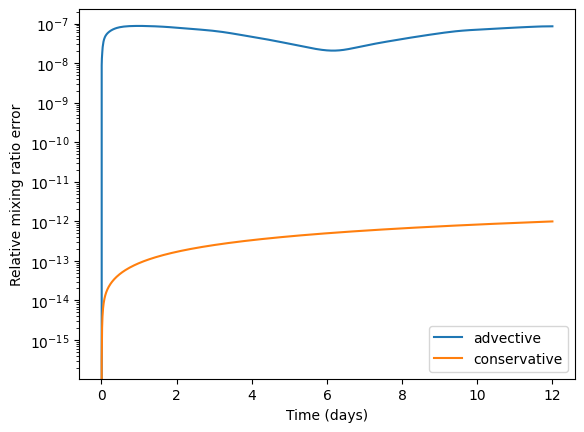
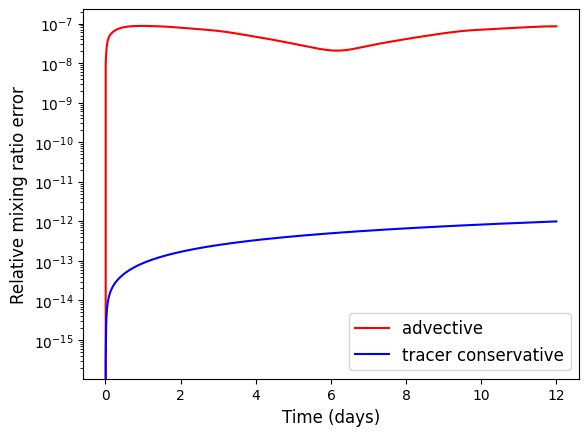
NL sphere stuff

diff --git a/paper_test_suite/NL_sphere/plot_NL_sphere_error_and_Td.py b/paper_test_suite/NL_sphere/plot_NL_sphere_error_and_Td.py
@@ -1,0 +1,190 @@
+# A script to make a convergence plot from 
+# the conservation test with the NL_slice test.
+# This uses the tomplot library
+# This is for the convergence configuration of the tests.
+
+import matplotlib.pyplot as plt
+from netCDF4 import Dataset
+from os.path import abspath, dirname
+from tomplot import (set_tomplot_style, plot_convergence,
+                     only_minmax_ticklabels, tomplot_legend_ax,
+                     tomplot_legend_fig)
+import numpy as np
+
+order = 1
+quantity = 'tracer_density' # tracer_density or m_X
+
+# Tracer density will be the total and m_X is the L2 of stead state error
+
+# Older branch:
+#results_dir = '/data/home/ta440/firedrake_07_03_24/src/gusto/gusto_conservative_transport/paper_test_suite/NL_sphere/'
+#name_ext=''
+
+# Or, for current directory:
+results_dir = ''
+
+# For any additional components to the name:
+#name_ext = '_dt_450.0_divflow_Vu_CG1'
+
+# order = 0 local branch
+#name_ext = '_dt_450.0_divflow_Vu_CG1_td_solve'
+
+# order = 1 local branch
+name_ext = '_td_solve'
+
+# ---------------------------------------------------------------------------- #
+# Directory for results and plots
+# ---------------------------------------------------------------------------- #
+plot_dir = f'{abspath(dirname(__file__))}/figures'
+if quantity == 'm_X':
+    plot_name = f'{plot_dir}/NL_sphere_ord_{order}_convergence_m_l2_sse.png'
+else:
+    plot_name = f'{plot_dir}/NL_sphere_ord_{order}_convergence_Td_sum.png'
+conservative = []
+advective = []
+
+# Spatial resolutions.
+# Order 1 can be twice as coarse as order 0.
+if order == 1:
+    ncells_per_edge = [8,16,24,32]
+    #refinement = ncells_per_edge
+    refinement = [32/val for val in ncells_per_edge]
+else:
+    #ncells_per_edge = [36,48]
+    ncells_per_edge = [16,24,36,48]
+    refinement = [48/val for val in ncells_per_edge]
+
+# Make a line for the conservative transport of the mixing ratio
+print('Extracting conservative data')
+for cell_no in ncells_per_edge:
+    dirname = f'NL_sphere_conservative_order_{order}_convergence_ncells_{cell_no}{name_ext}'
+    nc = Dataset(f'{results_dir}results/{dirname}/diagnostics.nc')
+
+    if quantity == 'tracer_density':
+    # Extract the tracer density:
+    
+        rho_X = nc.groups['TracerDensity_m_X_rho_d']
+        
+        T_d = rho_X.variables['total'][:]
+        
+        # Just compute Tracer density at the end time:
+        #T_d_diff = np.abs(T_d[-1] - T_d[0])/T_d[0]
+        #conservative.append(T_d_diff)
+
+        # Compute Tracer Density as a sum:
+        T_d_sum = np.sum(np.abs(T_d[1:] - T_d[0])/T_d[0])/len(T_d[1:])
+        conservative.append(T_d_sum)
+
+    elif quantity == 'm_X':
+        m_err = nc.groups['m_X_error']
+        m_err_l2 = m_err.variables['l2'][:]
+        # Normalise steady state error by initial value
+        # of m_X
+        mX = nc.groups['m_X']
+        mX0 = mX.variables['l2'][0]
+        print(mX0)
+        conservative.append(np.abs(m_err_l2[-1])/mX0)
+        print(np.log(np.abs(m_err_l2[-1])))
+    else:
+        raise ValueError('Not correct inputs')
+
+# Make a line for the advective transport of the mixing ratio
+print('Extracting advective data')
+for cell_no in ncells_per_edge:
+    dirname = f'NL_sphere_advective_order_{order}_convergence_ncells_{cell_no}{name_ext}'
+    
+    nc = Dataset(f'{results_dir}results/{dirname}/diagnostics.nc')
+
+    if quantity == 'tracer_density':
+    # Extract the tracer density:
+    
+        rho_X = nc.groups['TracerDensity_m_X_rho_d']
+        
+        T_d = rho_X.variables['total'][:]
+        
+        # Just compute Tracer density at the end:
+        #T_d_diff = np.abs(T_d[-1] - T_d[0])/T_d[0]
+        #advective.append(T_d_diff)
+
+        # Compute Tracer Density as a sum:
+        T_d_sum = np.sum(np.abs(T_d[1:] - T_d[0])/T_d[0])/len(T_d[1:])
+        advective.append(T_d_sum)
+
+    elif quantity == 'm_X':
+        m_err = nc.groups['m_X_error']
+        m_err_l2 = m_err.variables['l2'][:]
+        mX = nc.groups['m_X']
+        mX0 = mX.variables['l2'][0]
+        print(mX0)
+        advective.append(np.abs(m_err_l2[-1])/mX0)
+        print(np.log(np.abs(m_err_l2[-1])))
+    else:
+        raise ValueError('Not correct inputs')
+    
+##################################
+# Labels for the two plots:
+all_error_data = [advective, conservative]
+colours = ['red', 'blue']
+markers = ['s', 'o']
+labels = ['advective', 'tracer conservative']
+
+print(all_error_data)
+
+if quantity == 'tracer_density':
+    log_by = 'axes'
+    log_base = 10
+    #ylabel = r"$T_d(T_{end}) - T_d(0)/T_d(0)$"
+    ylabel = 'Mean Tracer Density Error'
+    if order == 1:
+        xlabel = r"$32/N_e$"
+    else:
+        xlabel = r"$48/N_e$"
+else:
+    log_by = 'data'
+    log_base= 'e'
+    if order == 1:
+        xlabel = r"$ln(32/N_e)$"
+    else:
+        xlabel = r"$ln(48/N_e)$"
+    ylabel = "$ln(||m(T_{end}) - m(0)||/||m(0)||)$"
+
+
+set_tomplot_style()
+fig, ax = plt.subplots(1, 1, figsize=(5, 5)) 
+for error_data, colour, marker, label in \
+        zip(all_error_data, colours, markers, labels):
+    plot_convergence(ax, refinement, error_data, label=label,
+                    color=colour, marker=marker, log_by=log_by,
+                    log_base=log_base, gradient_in_label=False)
+                    
+ax.set_xlabel(xlabel)
+ax.set_ylabel(ylabel)
+
+#xtick_labels = [np.round(val,2) for val in refinement]
+#xticks = [np.round(val,2) for val in refinement]
+#ax.set_xticks(xticks, xtick_labels)
+
+tomplot_legend_ax(ax, location='bottom')
+
+plt.grid()
+
+if quantity == 'tracer_density':
+    old_xticklabels = ax.get_xticklabels()
+
+    # Set most tick labels to be an empty string
+    new_xticklabels = ['' for _ in old_xticklabels]
+
+    ax.set_xticklabels([])
+    #ax.set_xticklabels(new_xticklabels)
+
+    xtick_labels = [np.round(val,2) for val in refinement]
+    #print(xtick_labels)
+    xticks = [np.round(val,2) for val in refinement]
+    ax.set_xticks(xticks, xtick_labels)
+
+# ---------------------------------------------------------------------------- #
+# Save figure
+# ---------------------------------------------------------------------------- #
+print(f'Saving figure to {plot_name}')
+#fig.savefig(plot_name, bbox_inches='tight')
+plt.close()

diff --git a/paper_test_suite/NL_sphere/plot_NL_sphere_consistency_mx_sse.py b/paper_test_suite/NL_sphere/plot_NL_sphere_consistency_mx_sse.py
@@ -12,7 +12,7 @@ from tomplot import (set_tomplot_style, plot_convergence,
 import numpy as np
 
 order = 1
-Ne = 32
+
 
 # Tracer density will be the total and m_X is the L2 of stead state error
 
@@ -28,34 +28,52 @@ extra_name = ''
 # ---------------------------------------------------------------------------- #
 # Directory for results and plots
 # ---------------------------------------------------------------------------- #
-plot_dir = f'{abspath(dirname(__file__))}/figures'
-plot_name = f'{abspath(dirname(__file__))}/NL_sphere_ord_{order}_consistency_m_l2_sse_over_time.png'
+plot_name = f'{abspath(dirname(__file__))}/figures/NL_sphere_ord_{order}_consistency_m_l2_sse_over_time.png'
+
+if order == 0:
+    Ne = 48
+elif order == 1:
+    Ne = 32
 
 # Advective result:
-adv_dirname = f'NL_sphere_advective_order_{order}_consistency_ncells_{Ne}{extra_name}/field_output.nc'
+adv_dirname = f'NL_sphere_advective_order_{order}_consistency_ncells_{Ne}{extra_name}'
 nc = Dataset(f'{abspath(dirname(__file__))}/results/{adv_dirname}/diagnostics.nc')
 
 times = np.asarray(nc['time'])
+time_days = times/60/60/24
 
 adv_mx_sse = nc.groups['m_X_error']
-adv_mx_sse = adv_mx_sse['total'][:]
+adv_mx_sse = adv_mx_sse['l2'][:]
+
+# Normalise:
+adv_mX = nc.groups['m_X']
+adv_mX = adv_mX['l2'][:]
+adv_mX0 = adv_mX[0]
+adv_mx_sse = adv_mx_sse/adv_mX0
 
 
 # Conservative result:
-con_dirname = f'{abspath(dirname(__file__))}/results/NL_sphere_conservative_order_{order}_consistency_ncells_{Ne}{extra_name}/field_output.nc'
+con_dirname = f'NL_sphere_conservative_order_{order}_consistency_ncells_{Ne}{extra_name}'
 conservative_nc = Dataset(f'{abspath(dirname(__file__))}/results/{con_dirname}/diagnostics.nc')
 
 con_mx_sse = conservative_nc.groups['m_X_error']
-con_mx_sse = con_mx_sse['total'][:]
+con_mx_sse = con_mx_sse['l2'][:]
+
+# Normalise:
+con_mX = nc.groups['m_X']
+con_mX = con_mX['l2'][:]
+con_mX0 = con_mX[0]
+con_mx_sse = con_mx_sse/con_mX0
+
 
 # Plot these tracer densities
 plt.figure()
-plt.semilogy(times, adv_mx_sse, label='advective')
-plt.semilogy(times, adv_mx_sse, label='conservative')
-plt.xlabel('Time (s)')
-plt.ylabel('|T_d(t) - T_d(0)| / T_d(0)')
-plt.legend()
+plt.semilogy(time_days, adv_mx_sse, label='advective', c='r')
+plt.semilogy(time_days, con_mx_sse, label='tracer conservative', c='b')
+plt.xlabel('Time (days)', size=12)
+plt.ylabel('Relative mixing ratio error', size=12)
+plt.legend(loc='lower right', prop={'size': 12})
 
 print(f'Saving figure to {plot_name}')
-fig.savefig(plot_name, bbox_inches='tight')
+plt.savefig(plot_name, bbox_inches='tight')
 plt.close()

diff --git a/paper_test_suite/NL_sphere/NL_sphere_divergent.py b/paper_test_suite/NL_sphere/NL_sphere_divergent.py
@@ -100,8 +100,10 @@ def NL_sphere(
     tracers = [rho_d, m_X]
 
     # Equation
-    #V = domain.spaces("HDiv")
-    V = VectorFunctionSpace(mesh, 'CG', 1)
+    if order == 0:
+        V = VectorFunctionSpace(mesh, 'CG', 1)
+    elif order == 1:
+        V = domain.spaces("HDiv")
     eqn = CoupledTransportEquation(domain, active_tracers=tracers, Vu=V)
 
     if conservative_transport:
@@ -109,7 +111,12 @@ def NL_sphere(
     else:
         transport_type = 'advective'
 
-    dirname = f'NL_sphere_{transport_type}_order_{str(order)}_{configuration}_ncells_{str(ncells_per_edge)}_dt_{dt}_divflow_Vu_CG1'
+    if configuration == 'consistency':
+        dirname = f'NL_sphere_{transport_type}_order_{str(order)}_{configuration}_ncells_{str(ncells_per_edge)}'
+    elif order == 0:
+        dirname = f'NL_sphere_{transport_type}_order_{str(order)}_{configuration}_ncells_{str(ncells_per_edge)}_dt_{dt}_divflow_Vu_CG1_td_solve'
+    else:
+        dirname = f'NL_sphere_{transport_type}_order_{str(order)}_{configuration}_ncells_{str(ncells_per_edge)}_td_solve'
 
     # I/O
     output = OutputParameters(
@@ -118,8 +125,8 @@ def NL_sphere(
 
     # Use a tracer density diagnostic to track conservation
     # Compare interpolate vs solve methods.
-    td = TracerDensity('m_X', 'rho_d')
-    #td = TracerDensity('m_X', 'rho_d', method='solve')
+    #td = TracerDensity('m_X', 'rho_d')
+    td = TracerDensity('m_X', 'rho_d', method='solve')
 
     diagnostic_fields = [
         td, SteadyStateError('m_X'),
@@ -134,14 +141,13 @@ def NL_sphere(
     if order == 1:
         suboptions = {}
     elif order == 0:
-        VCG1 = FunctionSpace(mesh, 'CG', 1)
-        #VDG1 = domain.spaces('DG1_equispaced')    
+        VCG1 = FunctionSpace(mesh, 'CG', 1)  
         VDG1 = domain.spaces('DG1_equispaced')    
     
         if conservative_transport:
             suboptions = {'rho_d': RecoveryOptions(embedding_space=VDG1,
                                                    recovered_space=VCG1,
-                                                   project_low_method='recover'),
+                                                   project_low_method='project'),
                           'm_X': ConservativeRecoveryOptions(embedding_space=VDG1,
                                                              recovered_space=VCG1,
                                                              project_low_method='conservative_project',
